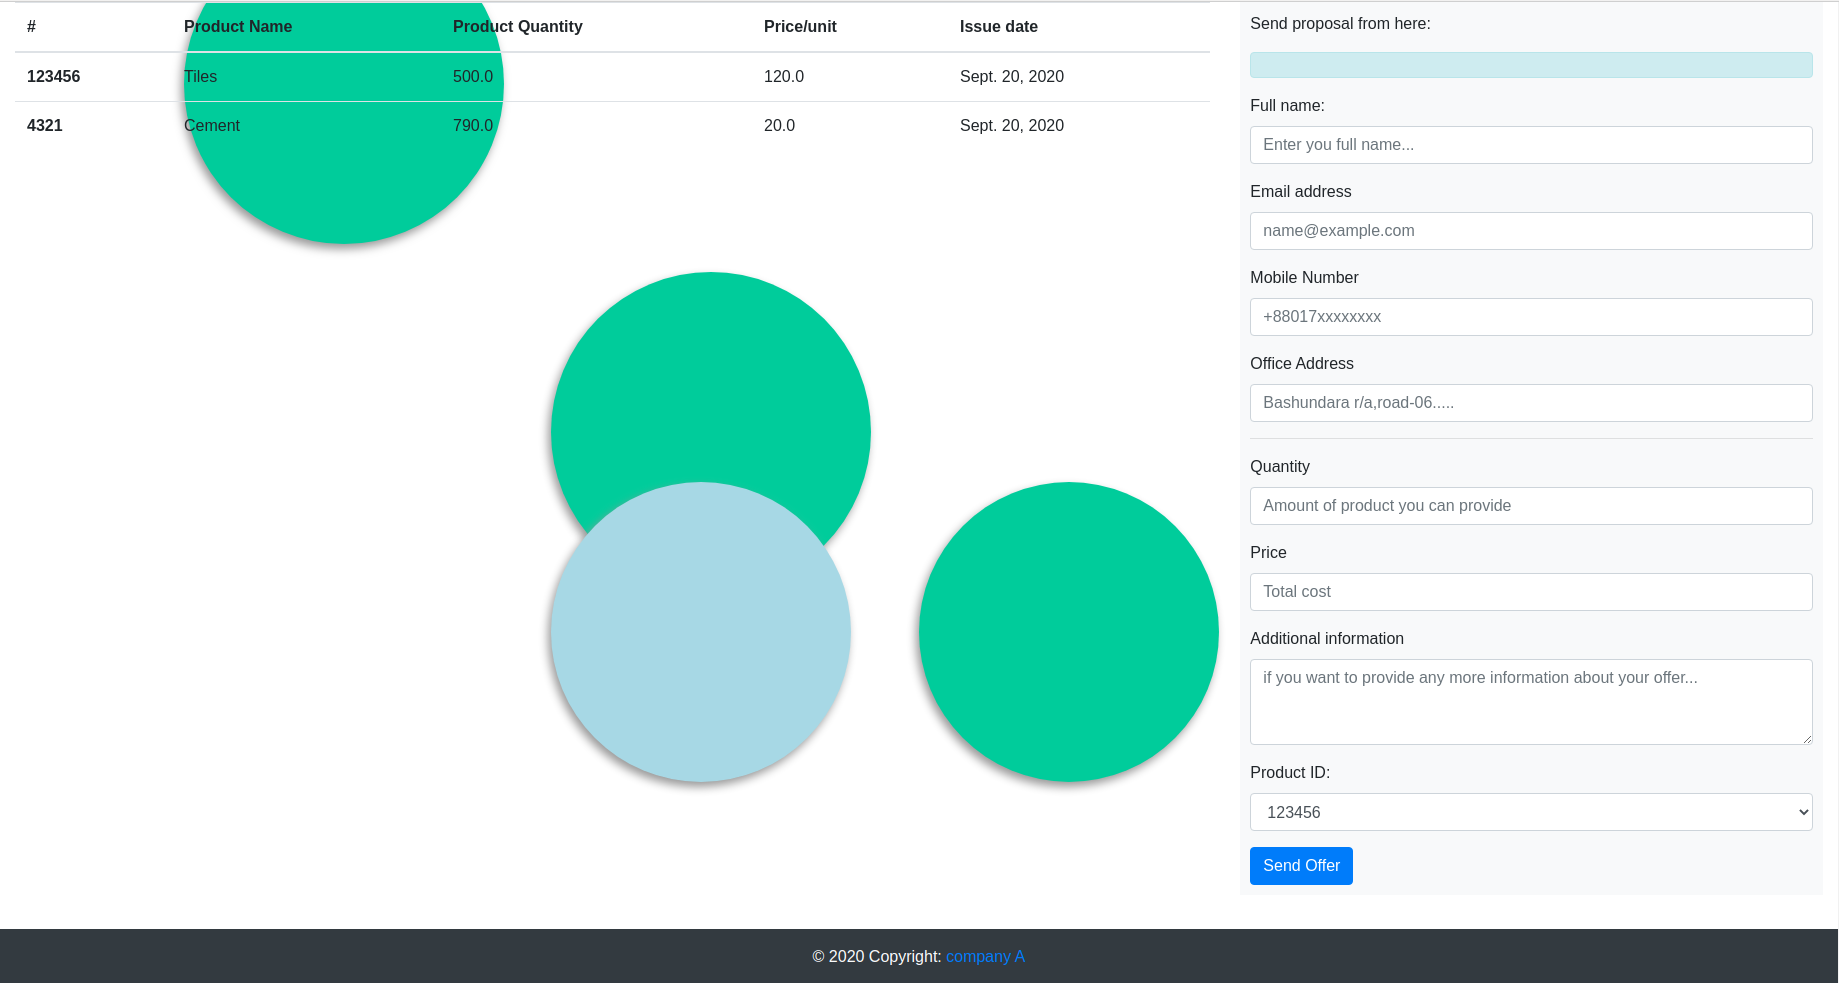
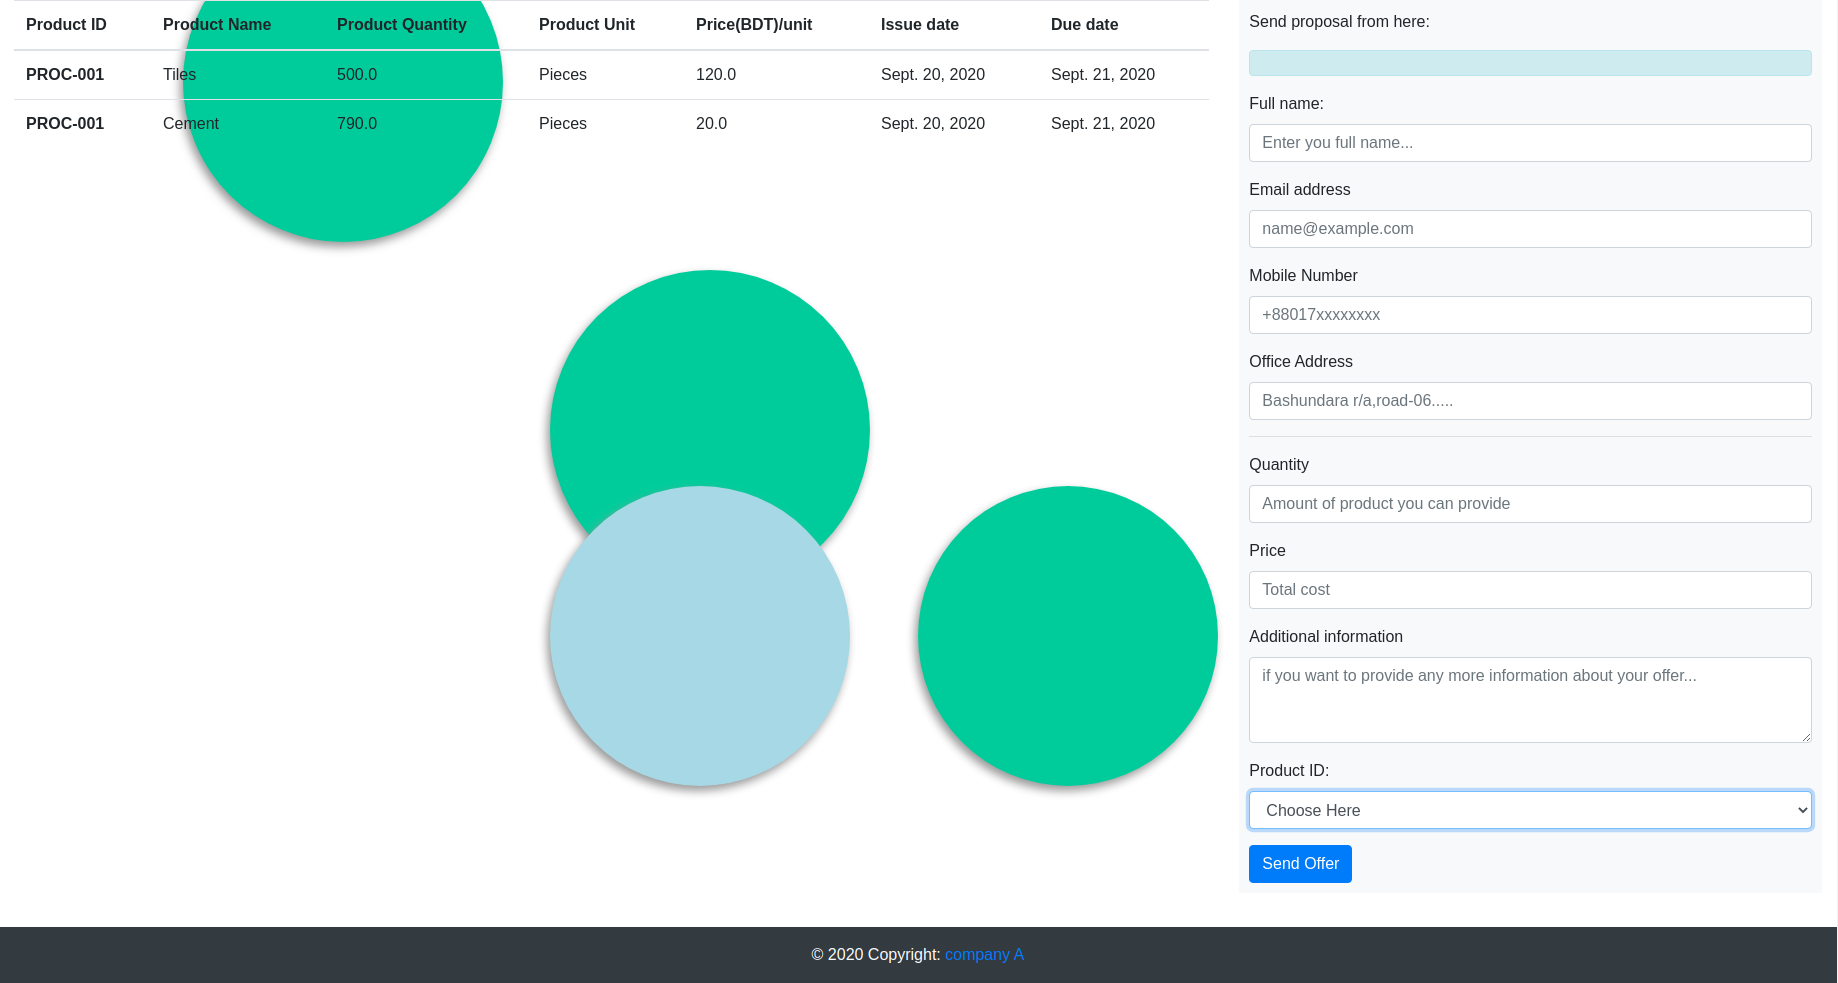
small changed to offerlist

diff --git a/company_A_management_system/vendor_app/templates/vendor_app/procurement_offer.html b/company_A_management_system/vendor_app/templates/vendor_app/procurement_offer.html
@@ -54,7 +54,8 @@
         <!-- <th scope="col">Product added by</th> -->
         <th scope="col">Product Name</th>
         <th scope="col">Product Quantity</th>
-        <th scope="col">Price/unit</th>
+        <th scope="col">Product Unit</th>
+        <th scope="col">Price(BDT)/unit</th>
         <th scope="col">Issue date</th>
         <th scope="col">Due date</th>
       </tr>
@@ -65,6 +66,7 @@
         <th scope="row">{{item.company_a_proc_id}}</th>
         <td>{{item.product_name}}</td>
         <td>{{item.product_quantity}}</td>
+        <td>{{item.product_unit}}</td>
         <td>{{item.product_price_per_unit}}</td>
         <td>{{item.issue_date}}</td>
         <td>{{item.due_date}}</td>

diff --git a/company_A_management_system/vendor_app/views.py b/company_A_management_system/vendor_app/views.py
@@ -45,7 +45,6 @@ def offerView(request):
     })
 
 
-<<<<<<< HEAD
 # def track_offer(request):
 #     code = ProcurementOfferModel.objects.all()
 #     if 'trackerButton' in request.POST:
@@ -53,5 +52,3 @@ def offerView(request):
 #             if(i == request.POST['tracker']):
 #                 return render(request, 'home/home.html')
 #     return render(request, "vendor_app/home.html")
-=======
->>>>>>> master
